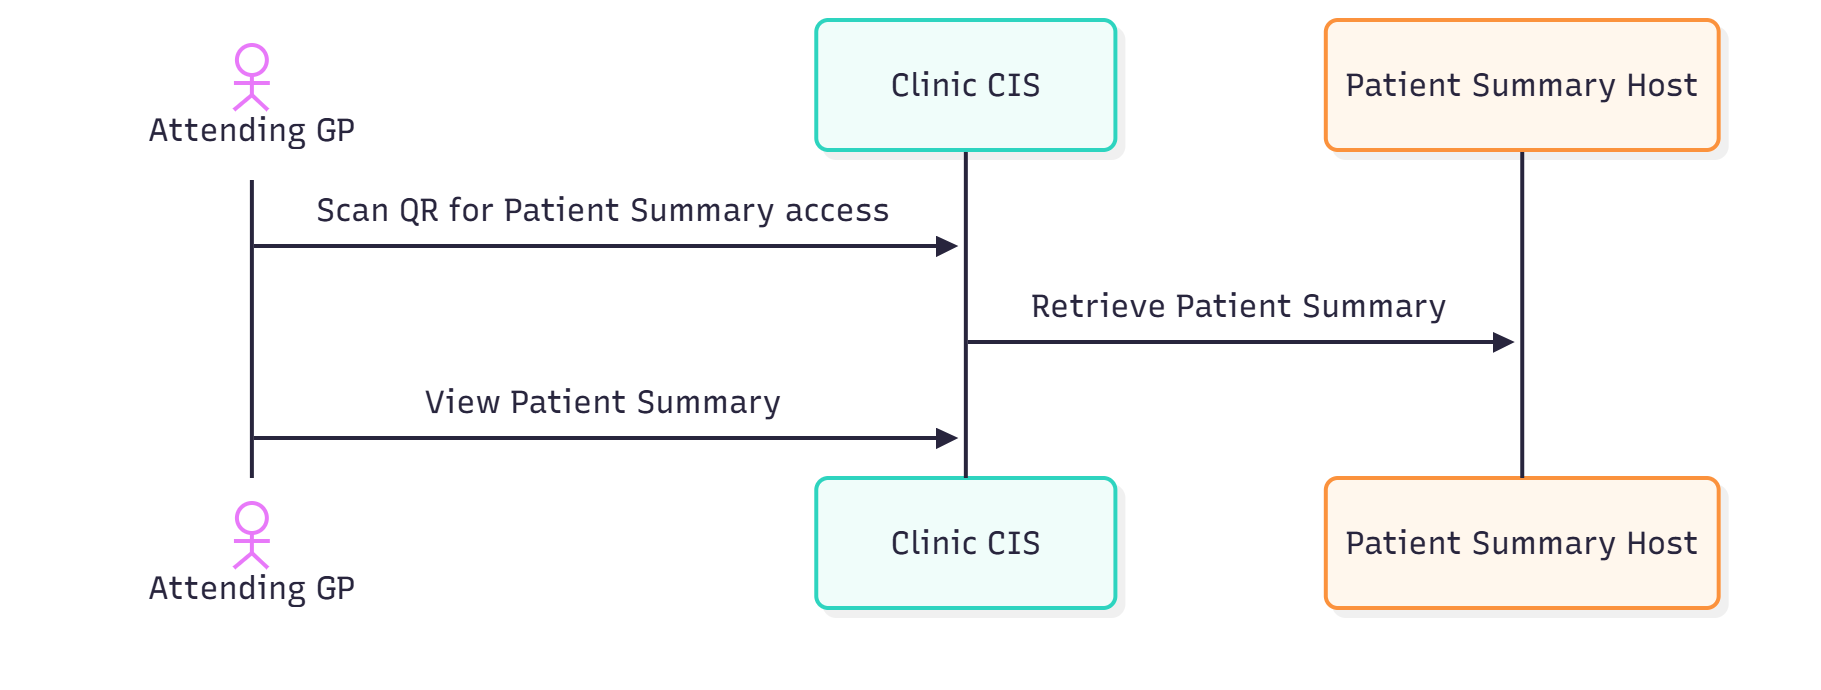
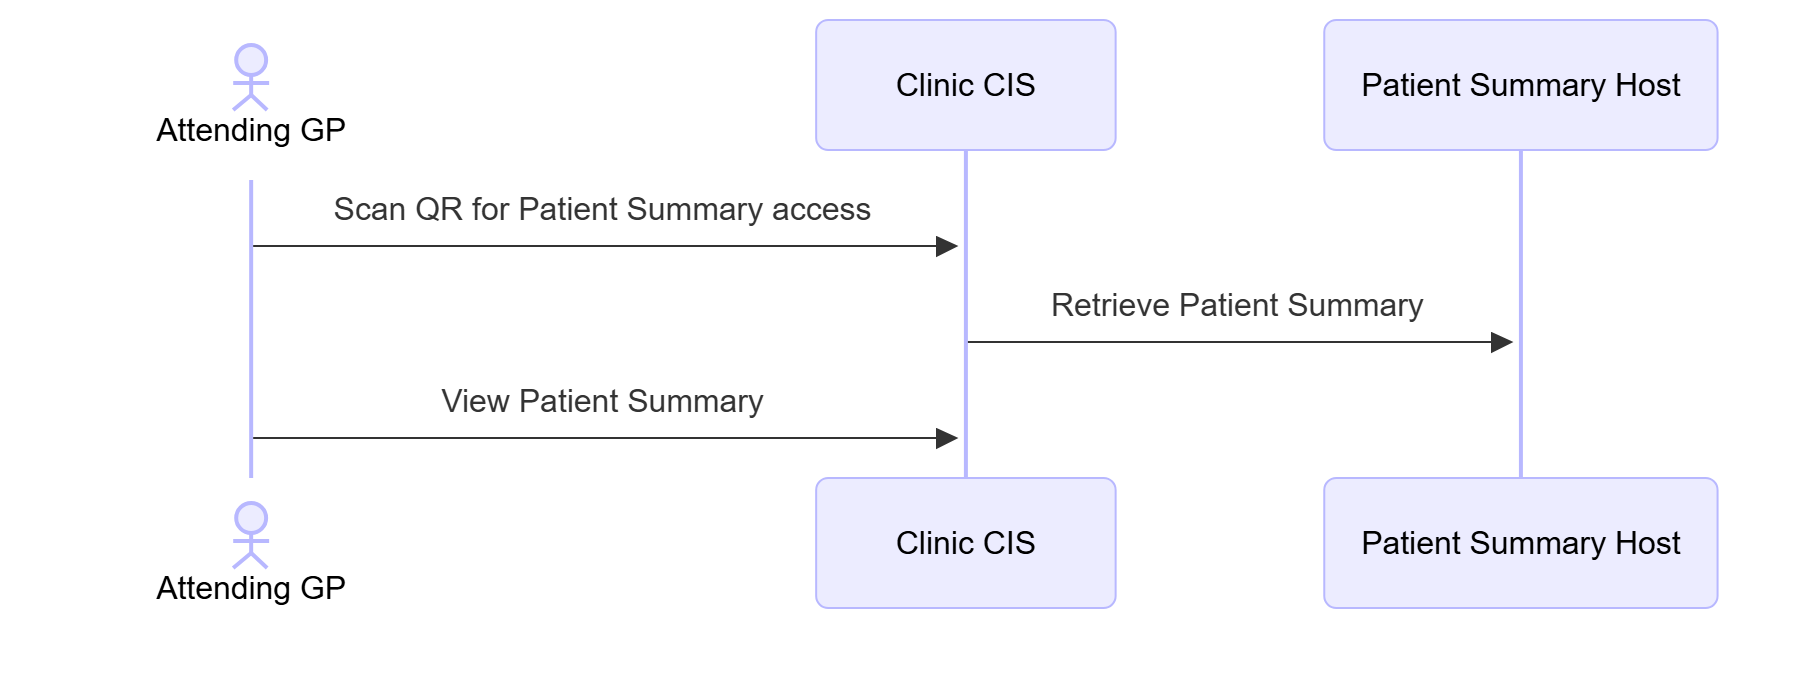
updated diagrams

diff --git a/input/pagecontent/uc-interstate.md b/input/pagecontent/uc-interstate.md
@@ -33,9 +33,8 @@ This use case demonstrates use of patient summary during step 5. Patient Summary
 1. Attending GP - Dr Wyatt Samuels
 
 #### Systems
-1. Attending GP's CIS
-1. Usual GP's CIS
-1. Smart Health Link Server
+1. Clinic CIS (Attending GP)
+1. Patient Summary Host
 
 ### Precondition(s)
 1. Jeramy has provided consent for his health information to be shared between healthcare providers.
@@ -51,7 +50,7 @@ This use case demonstrates use of patient summary during step 5. Patient Summary
 
 ### Flow
 1. Dr Samuels’ CIS scans the QR code to gain access to the patient summary via the Smart Health Link.
-1. The patient summary is retrieved from a patient summary host system indicated by the Smart Health Link. 
+1. The patient summary is retrieved from a Patient Summary Health system indicated by the Smart Health Link. 
 1. Dr Samuels views the patient summary in the consultation.
 
 #### Sequence Diagram
